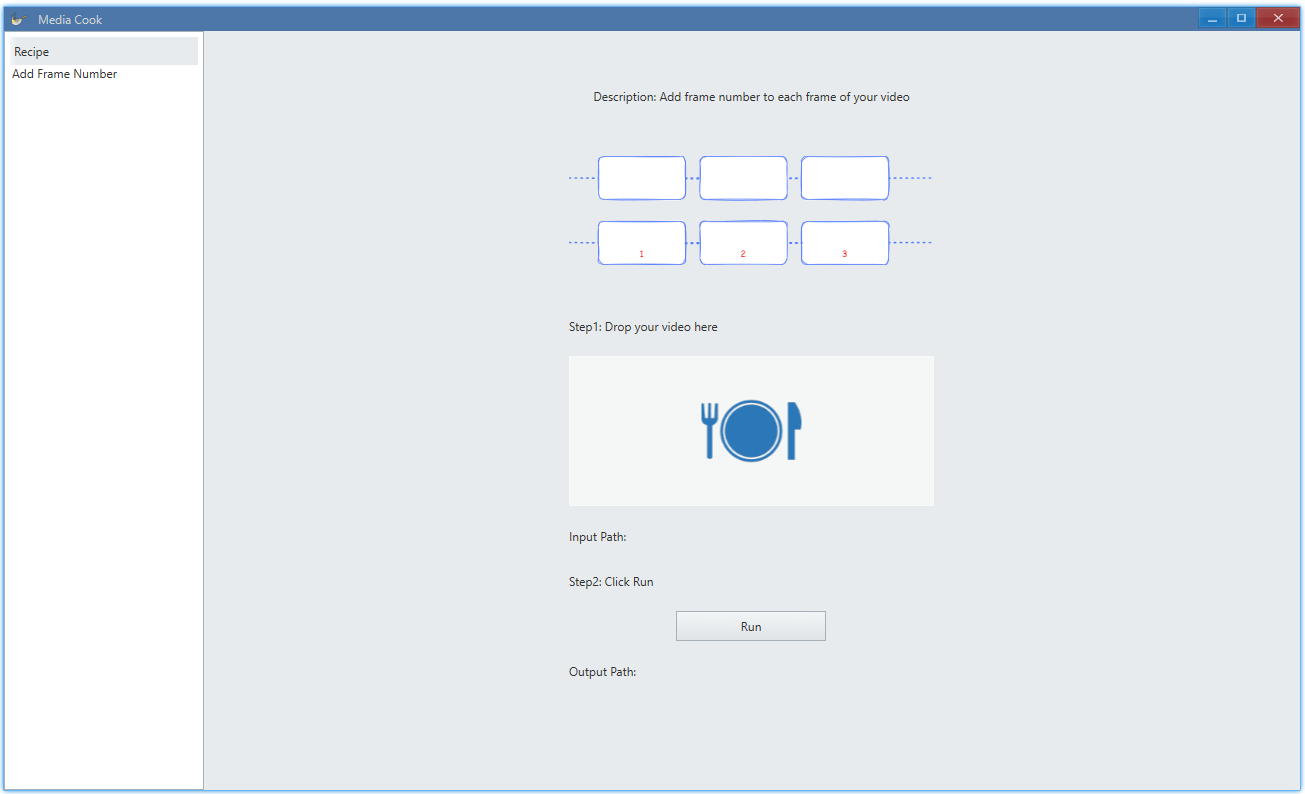
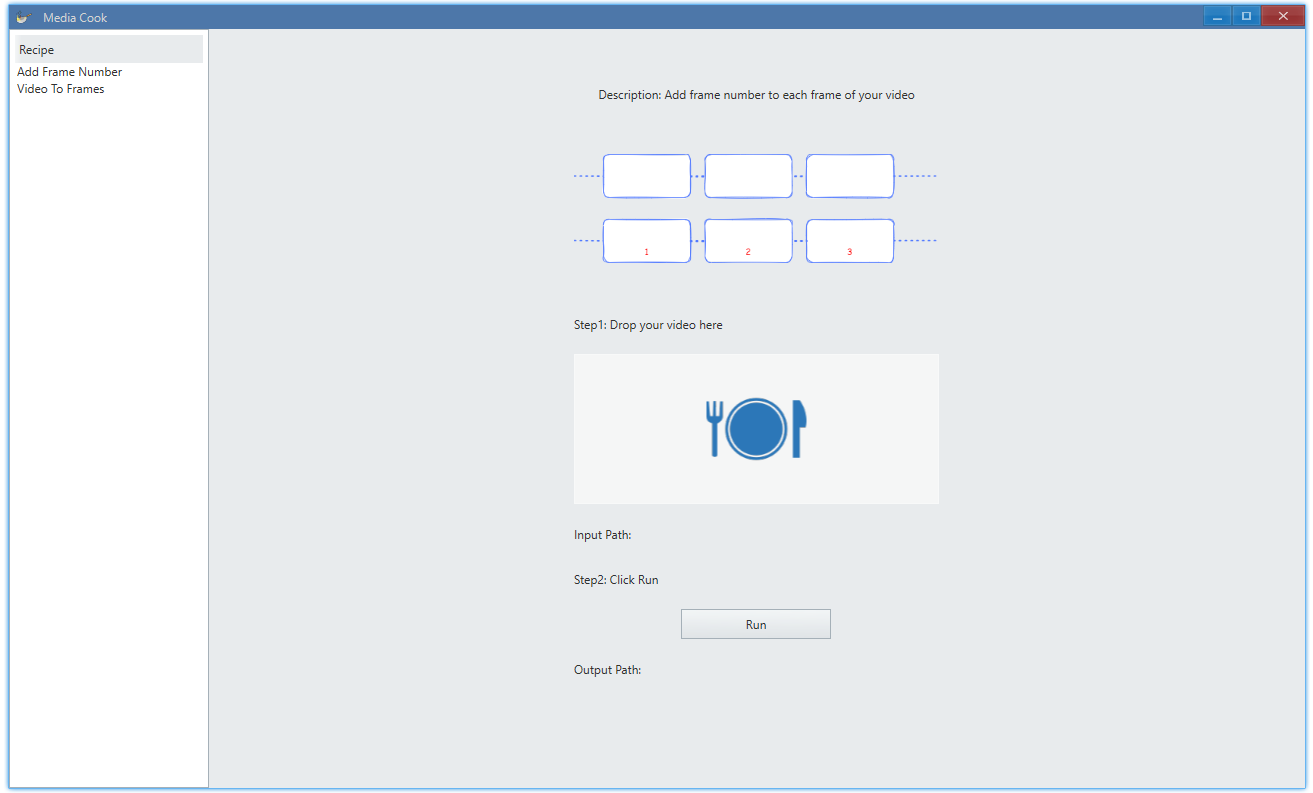
impl video to frames

diff --git a/src/program/command/index.ts b/src/program/command/index.ts
@@ -59,7 +59,7 @@ export async function addFrameNumber(config: IAddFrameNumberConfig): Promise<str
 		const fileExtension = path.extname(inputPath);
 		const fileName = path.basename(inputPath, fileExtension);
 		const fileDir = path.dirname(inputPath);
-		const outputPath = path.resolve(fileDir, `./${fileName}.with-frames${fileExtension}`);
+		const outputPath = path.resolve(fileDir, `./${fileName}-with-frames${fileExtension}`);
 		if (fs.existsSync(outputPath)) {
 			fs.removeSync(outputPath);
 		}
@@ -85,7 +85,7 @@ export async function addFrameNumber(config: IAddFrameNumberConfig): Promise<str
 	});
 }
 
-//
+// ffmpeg -i <input> "%01d.png"
 export interface IVideoToFramesConfig {
 	inputPath: string;
 }
@@ -94,7 +94,34 @@ export async function videoToFrames(config: IVideoToFramesConfig): Promise<strin
 	const { inputPath } = config;
 
 	return new Promise((resolve, reject) => {
-		
+		//
+		const fileExtension = path.extname(inputPath);
+		const fileName = path.basename(inputPath, fileExtension);
+		const fileDir = path.dirname(inputPath);
+		const outputDir = path.resolve(fileDir, `./${fileName}-frames`);
+		if (fs.existsSync(outputDir)) {
+			fs.removeSync(outputDir);
+		}
+
+		fs.ensureDirSync(outputDir);
+
+		// prettier-ignore
+		const args = [
+			`-hide_banner`, 
+			`-i ${inputPath}`, 
+			path.resolve(`${outputDir}`, "./%01d.png")
+		].join(" ");
+
+		//
+		const command = `"${ffmpeg}" ${args}`;
+		// console.log(command);
+		childProcess.exec(command, (error, stdout, stderr) => {
+			if (error) {
+				console.error(error);
+				reject(error);
+			} else {
+				resolve(outputDir);
+			}
+		});
 	});
 }
-

diff --git a/src/program/components/recipes/video-to-frames/index.ts b/src/program/components/recipes/video-to-frames/index.ts
@@ -46,7 +46,7 @@ export class RecipeVideoToFrames extends Area {
 		// https://www.flaticon.com/premium-icon/video_4726008
 		// const fileIcon = codec.Open(ResourceSource.FromPackedFile(assetPath("components/video-32.png")));
 		this.dropArea = new DropArea(window, uploadIcon, (inputPath, resetFileIcon) => {
-			// recipeState.setInputPath(inputPath);
+			recipeState.setInputPath(inputPath);
 			getVideoPreview(inputPath).then((buffer) => {
 				const res = ResourceSource.FromBuffer(buffer);
 				const aveImage = codec.Open(res);
@@ -70,15 +70,15 @@ export class RecipeVideoToFrames extends Area {
 		this.outputPath.SetAlignHorz(AlignType.Near);
 
 		autorun(() => {
-			this.outputPath.SetText(`Output Path: ${recipeState.outputPath}`);
+			this.outputPath.SetText(`Output Dir: ${recipeState.outputPath}`);
 		});
 
 		this.run = new Button(window);
 		this.run.SetText("Run");
 		this.run.OnClick((sender) => {
 			if (recipeState.inputPath) {
-				videoToFrames({ inputPath: recipeState.inputPath }).then((outputPath) => {
-					recipeState.setOutputPath(outputPath);
+				videoToFrames({ inputPath: recipeState.inputPath }).then((outputDir) => {
+					recipeState.setOutputPath(outputDir);
 				});
 			}
 		});

diff --git a/src/program/components/sidebar.ts b/src/program/components/sidebar.ts
@@ -67,7 +67,10 @@ export class Sidebar extends Area {
 		// handle event
 		this.recipes.OnSelectionEnd((sender) => {
 			const itemIndex = sender.ItemGetSelection();
-			state.setCurrentRecipe(itemIndex);
+			// it can be -1 when you click list box empty area
+			if (itemIndex >= 0) {
+				state.setCurrentRecipe(itemIndex);
+			}
 		});
 	}
 

diff --git a/src/program/components/recipes/video-to-frames/README.md b/src/program/components/recipes/video-to-frames/README.md
@@ -1,0 +1,13 @@
+# Video To Frames
+
+Ref: https://stackoverflow.com/questions/34786669/extract-all-video-frames-as-images-with-ffmpeg
+
+```bash
+ffmpeg -i <input> "%01d.png"
+```
+
+Example
+
+```bash
+ffmpeg -i input.mp4 "./frames/%01d.png"
+```
